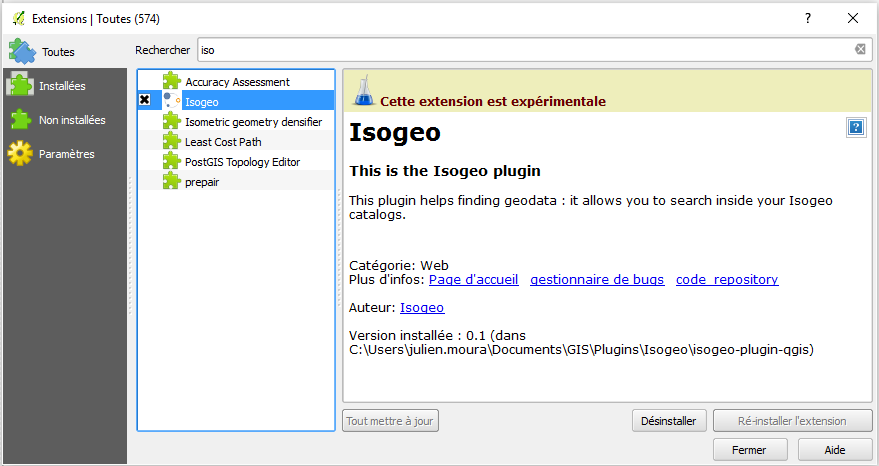
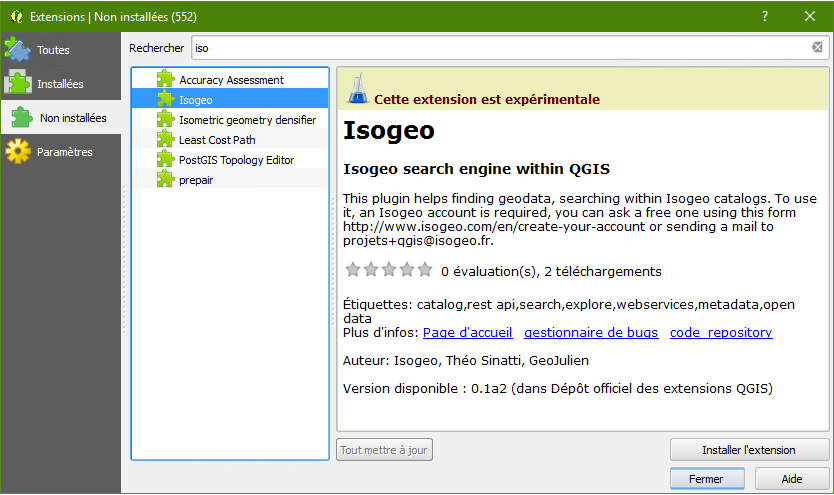
update install guide

Changed region(s): [[0.0, 0.0, 1.0, 1.0], [0.1247, 0.5408, 0.1559, 0.6309]]

diff --git a/doc/install_FR.md b/doc/install_FR.md
@@ -1,16 +1,34 @@
 # Installer le plugin QGIS
 
+Toujours en phase de développement active, il est possible d'installer le plugin de deux façons différentes :
+
+* pour les utilisateurs standards, via le canal expérimental du gestionnaire d'extensions intégré à QGIS ;
+* pour les utilisateurs avancés, via le téléchargement du dépôt.
+
 ### Procédure ###
 
 1. Demander la création de votre application en envoyant un mail à [projets+qgis@isogeo.fr](mailto:projets+qgis@isogeo.fr?subject=[Plugin QGIS] Demande d'accès) en indiquant quel(s)) groupe(s) de travail est/sont concerné(s) ;
+
 2. Une fois la réponse reçue, créer un partage vers l'application *Plugin QGIS* dans l'administration des partages sur [APP](https://app.isogeo.com) ;
 
     ![Create and configure a share](../img/app_share_toPlugin.png)
-
-3. Télécharger la dernière version du plugin et décompresser dans `C:\Users\%USERNAME%\.qgis2\python\plugins` ;
-4. Vérifier les paramètres réseau dasn QGIS (proxy...)) ;
+3. Dans QGIS, vérifier les paramètres réseau (proxy...) via le menu *Préférences* > *Options...* ;
 
     ![Set network preferences](../img/qgis_install_network.png)
+
+4. Installer le plugin :
+    * Utilisateurs standards :
+        1. Dans QGIS, ouvrir le Gestionnaire d'extensions : menu *Extension* > *Installer/Gérer les extensions...* ;
+        2. Dans *Paramètres*, activer les extensions expérimentales :
+
+            ![QGIS - Experimental extensions](../img/qgis_install_experimental_settings.png)
+    
+        3. Il est aussi recommandé d'activer les mises à jour à chaque démarrage ou au moins hebdomadaires.
+
+    * Utilisateurs avancés :
+
+        1. Télécharger la [dernière version du plugin](https://github.com/isogeo/isogeo-plugin-qgis/releases) ;
+        2. Décompresser dans `C:\Users\%USERNAME%\.qgis2\python\plugins` pour Windows ou `/home/$USER/.qgis2/python/plugins` pour Ubuntu ;
 
 5. Activer l'extension via le gestionnaire de plugins de QGIS :
 
